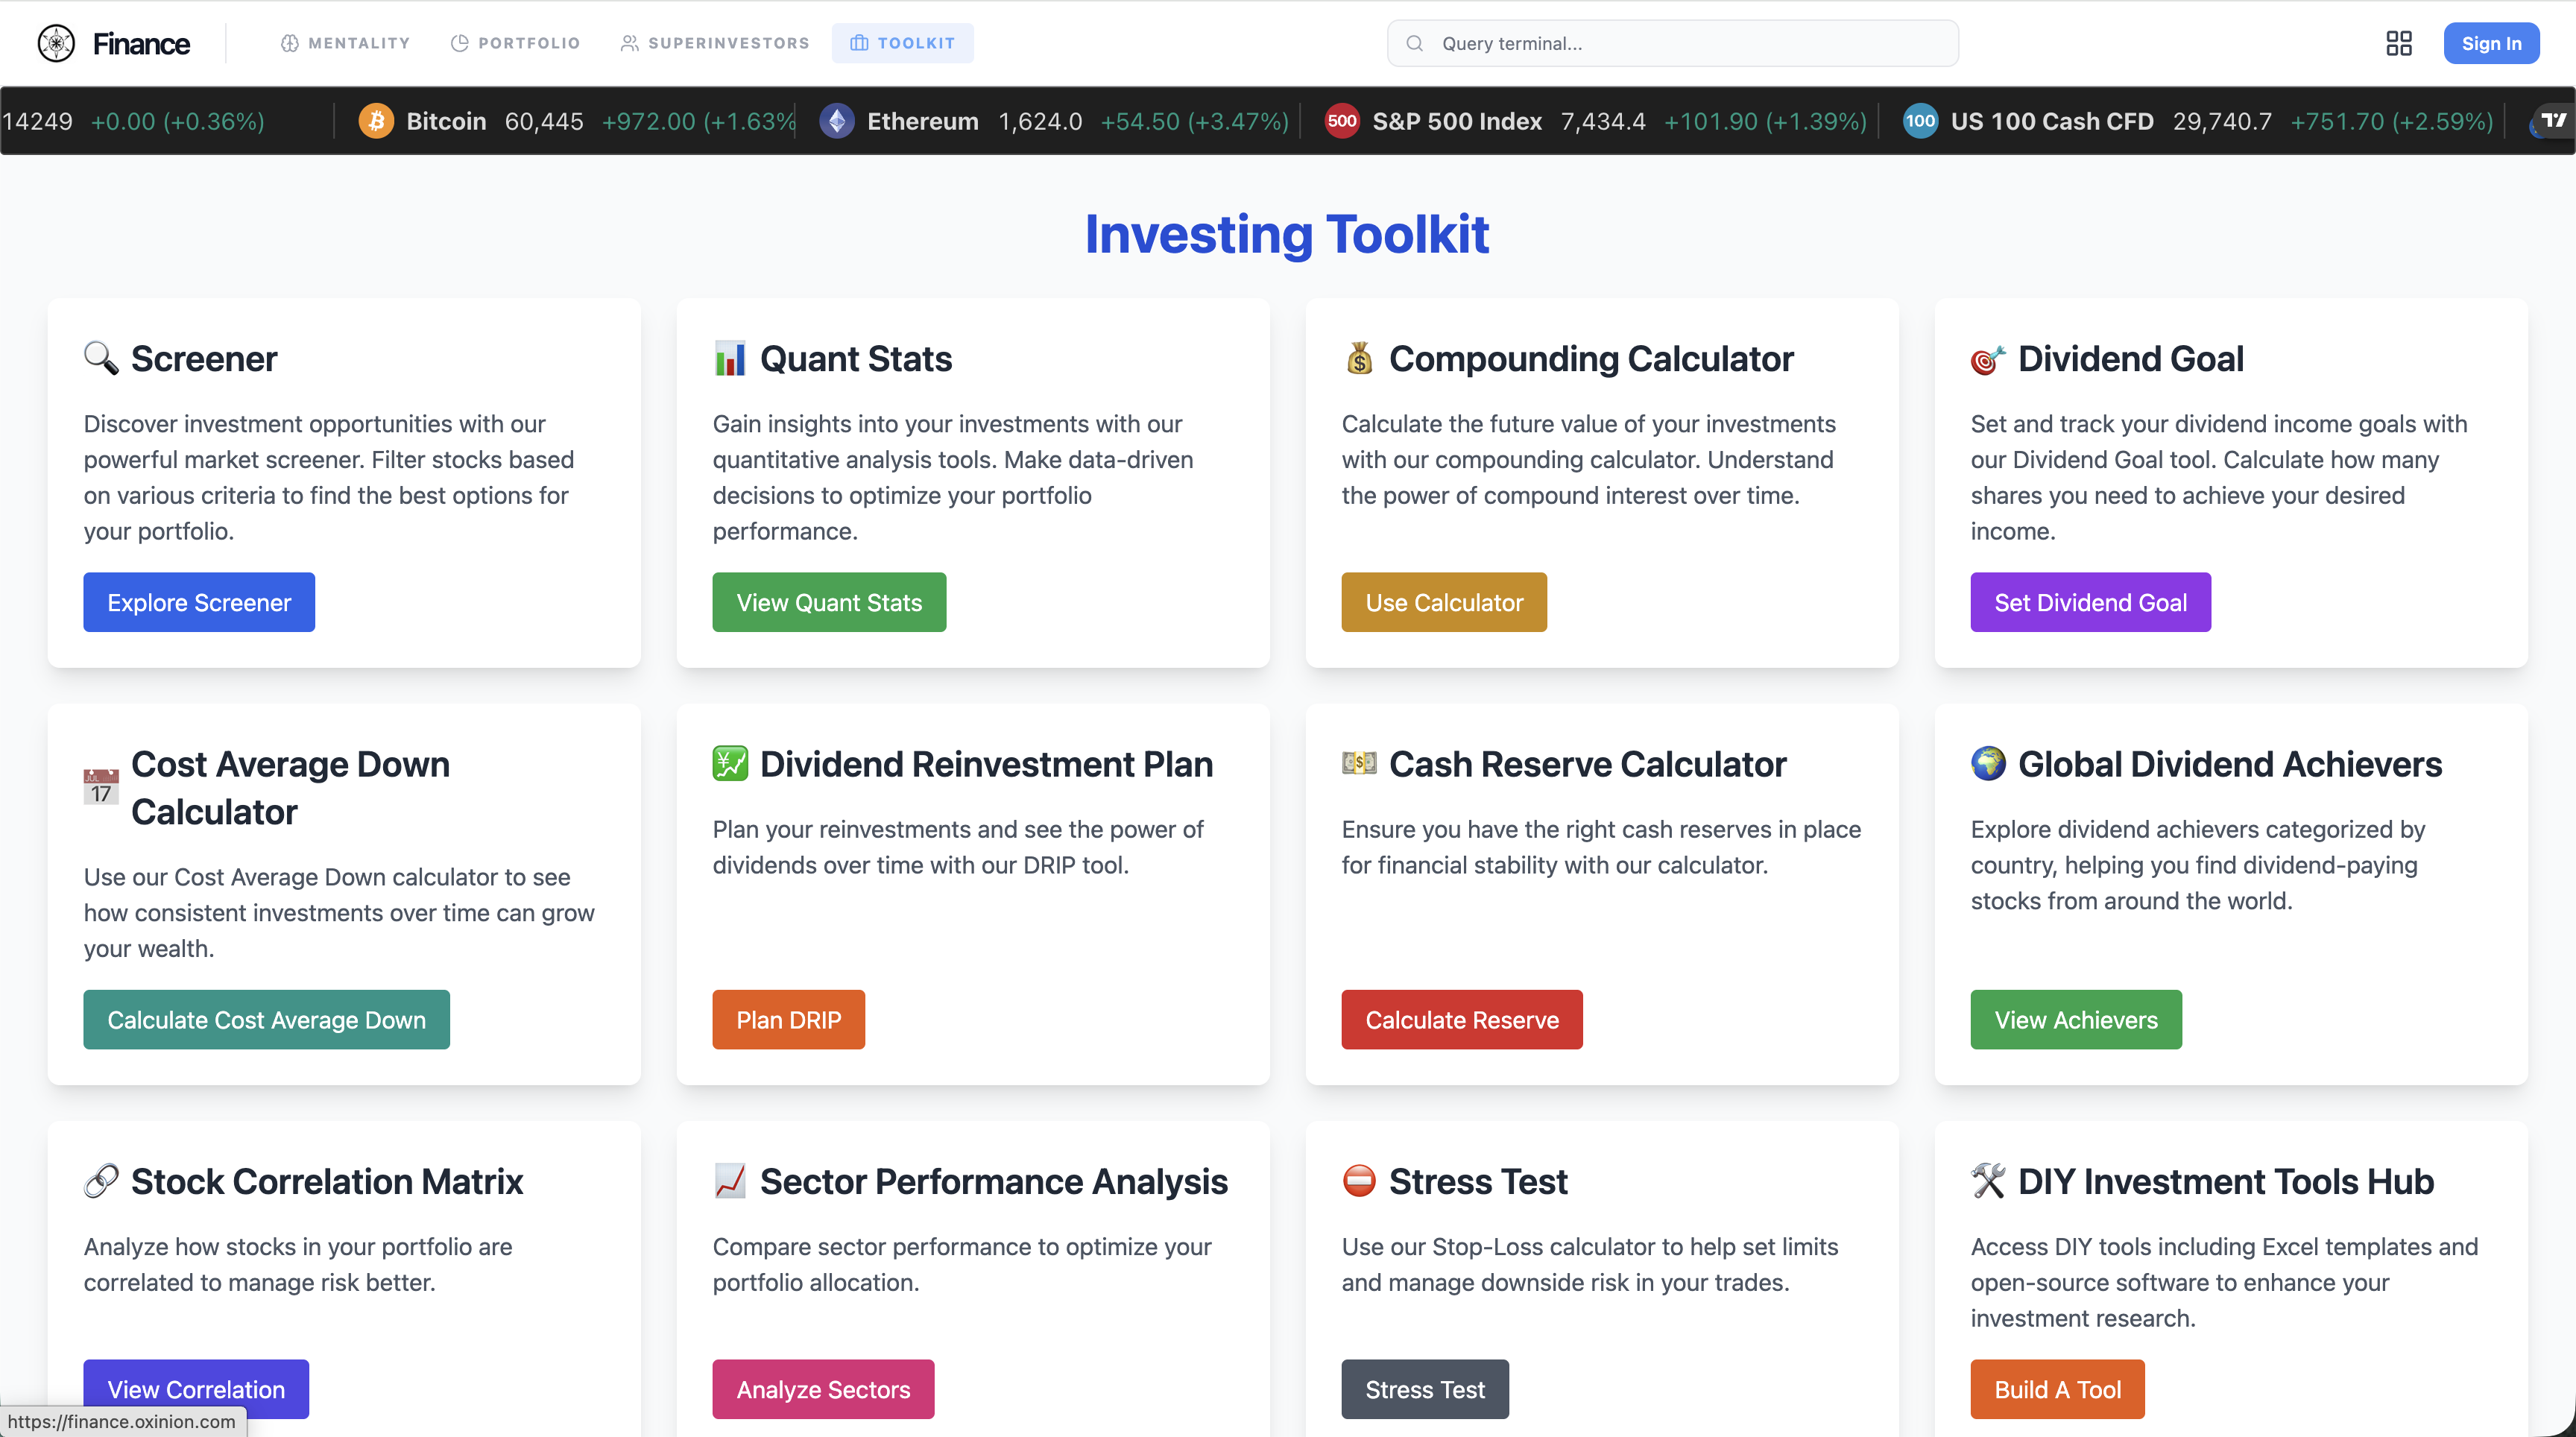
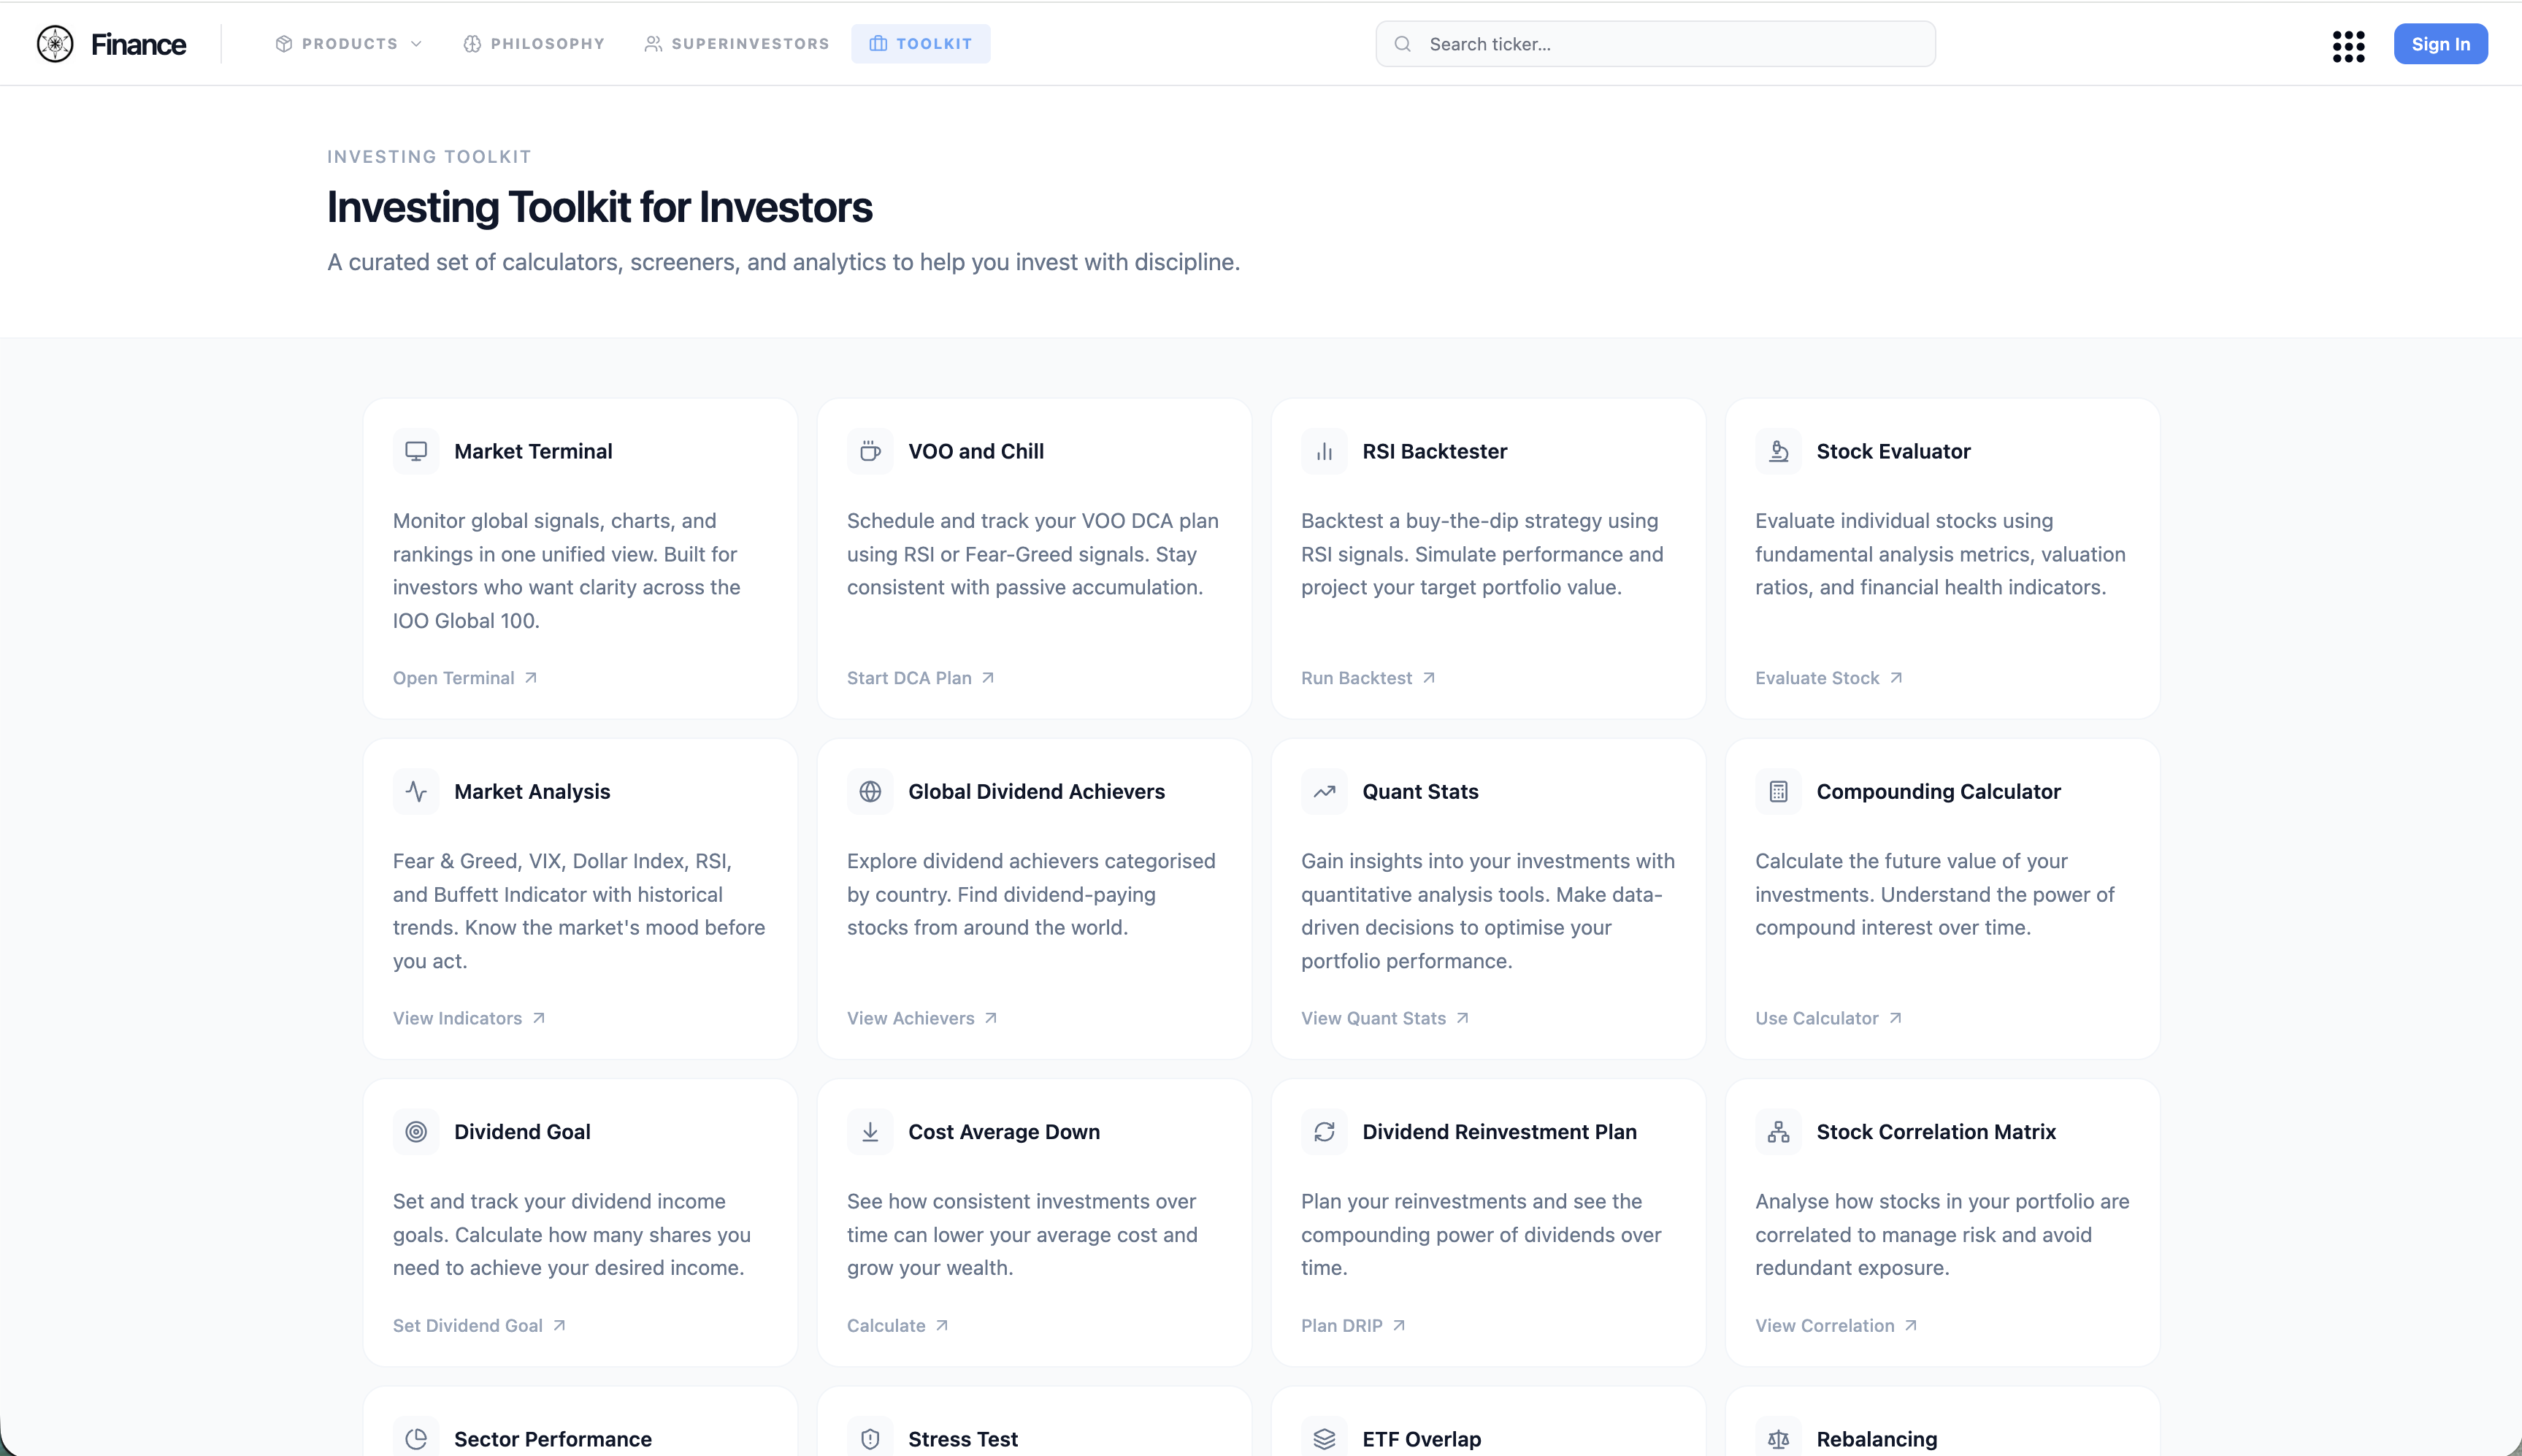
update

diff --git a/src/app/page.tsx b/src/app/page.tsx
@@ -143,8 +143,8 @@ export default function Home() {
             </h3>
             <div className="space-y-8">
               {/* Openmile */}
-              <div className="flex gap-6">
-                <div className="shrink-0 w-20">
+              <div className="flex flex-col sm:flex-row gap-1 sm:gap-6">
+                <div className="shrink-0 sm:w-20">
                   <span className="text-gray-500 text-sm whitespace-nowrap">
                     2024 — 2026
                   </span>
@@ -218,12 +218,12 @@ export default function Home() {
                       <p className="mb-2 text-sm font-medium">
                         Project Gallery:
                       </p>
-                      <div className="flex gap-2">
+                      <div className="flex flex-wrap gap-2">
                         {openmileimages.map((image, idx) => (
                           <button
                             key={image.id}
                             onClick={() => openModal(openmileimages, idx)}
-                            className="relative w-16 h-16 border border-gray-200 rounded overflow-hidden hover:border-gray-300 transition-colors"
+                            className="relative w-16 h-16 border border-gray-200 rounded hover:border-gray-300 transition-colors"
                           >
                             <img
                               src={image.src}
@@ -239,8 +239,8 @@ export default function Home() {
               </div>
 
               {/* Surff Company */}
-              <div className="flex gap-6">
-                <div className="shrink-0 w-20">
+              <div className="flex flex-col sm:flex-row gap-1 sm:gap-6">
+                <div className="shrink-0 sm:w-20">
                   <span className="text-gray-500 text-sm whitespace-nowrap">
                     2023
                   </span>
@@ -297,12 +297,12 @@ export default function Home() {
                       <p className="mb-2 text-sm font-medium">
                         Project Gallery:
                       </p>
-                      <div className="flex gap-2">
+                      <div className="flex flex-wrap gap-2">
                         {surffimages.map((image, idx) => (
                           <button
                             key={image.id}
                             onClick={() => openModal(surffimages, idx)}
-                            className="relative w-16 h-16 border border-gray-200 rounded overflow-hidden hover:border-gray-300 transition-colors"
+                            className="relative w-16 h-16 border border-gray-200 rounded hover:border-gray-300 transition-colors"
                           >
                             <img
                               src={image.src}
@@ -318,8 +318,8 @@ export default function Home() {
               </div>
 
               {/* Uptempo Global */}
-              <div className="flex gap-6">
-                <div className="shrink-0 w-20">
+              <div className="flex flex-col sm:flex-row gap-1 sm:gap-6">
+                <div className="shrink-0 sm:w-20">
                   <span className="text-gray-500 text-sm whitespace-nowrap">
                     2022
                   </span>
@@ -376,12 +376,12 @@ export default function Home() {
                       <p className="mb-2 text-sm font-medium">
                         Project Gallery:
                       </p>
-                      <div className="flex gap-2">
+                      <div className="flex flex-wrap gap-2">
                         {uptempoimages.map((image, idx) => (
                           <button
                             key={image.id}
                             onClick={() => openModal(uptempoimages, idx)}
-                            className="relative w-16 h-16 border border-gray-200 rounded overflow-hidden hover:border-gray-300 transition-colors"
+                            className="relative w-16 h-16 border border-gray-200 rounded hover:border-gray-300 transition-colors"
                           >
                             <img
                               src={image.src}
@@ -397,8 +397,8 @@ export default function Home() {
               </div>
 
               {/* Community STEM Instructor */}
-              <div className="flex gap-6">
-                <div className="shrink-0 w-20">
+              <div className="flex flex-col sm:flex-row gap-1 sm:gap-6">
+                <div className="shrink-0 sm:w-20">
                   <span className="text-gray-500 text-sm whitespace-nowrap">
                     2016
                   </span>
@@ -439,8 +439,8 @@ export default function Home() {
           <section className="mb-12">
             <h3 className="text-lg font-medium mb-6">Projects</h3>
             <div className="space-y-8">
-              <div className="flex gap-6">
-                <div className="shrink-0 w-20">
+              <div className="flex flex-col sm:flex-row gap-1 sm:gap-6">
+                <div className="shrink-0 sm:w-20">
                   <span className="text-gray-500 text-sm whitespace-nowrap">
                     Present
                   </span>
@@ -501,12 +501,12 @@ export default function Home() {
                       <p className="mb-2 text-sm font-medium">
                         Project Gallery:
                       </p>
-                      <div className="flex gap-2">
+                      <div className="flex flex-wrap gap-2">
                         {oxinioimages.map((image, idx) => (
                           <button
                             key={image.id}
                             onClick={() => openModal(oxinioimages, idx)}
-                            className="relative w-16 h-16 border border-gray-200 rounded overflow-hidden hover:border-gray-300 transition-colors"
+                            className="relative w-16 h-16 border border-gray-200 rounded hover:border-gray-300 transition-colors"
                           >
                             <img
                               src={image.src}
@@ -521,8 +521,8 @@ export default function Home() {
                 </div>
               </div>
 
-              <div className="flex gap-6">
-                <div className="shrink-0 w-20">
+              <div className="flex flex-col sm:flex-row gap-1 sm:gap-6">
+                <div className="shrink-0 sm:w-20">
                   <span className="text-gray-500 text-sm whitespace-nowrap">
                     Present
                   </span>
@@ -588,12 +588,12 @@ export default function Home() {
                       <p className="mb-2 text-sm font-medium">
                         Project Gallery:
                       </p>
-                      <div className="flex gap-2">
+                      <div className="flex flex-wrap gap-2">
                         {financeimages.map((image, idx) => (
                           <button
                             key={image.id}
                             onClick={() => openModal(financeimages, idx)}
-                            className="relative w-16 h-16 border border-gray-200 rounded overflow-hidden hover:border-gray-300 transition-colors"
+                            className="relative w-16 h-16 border border-gray-200 rounded hover:border-gray-300 transition-colors"
                           >
                             <img
                               src={image.src}
@@ -608,8 +608,8 @@ export default function Home() {
                 </div>
               </div>
 
-              <div className="flex gap-6">
-                <div className="shrink-0 w-20">
+              <div className="flex flex-col sm:flex-row gap-1 sm:gap-6">
+                <div className="shrink-0 sm:w-20">
                   <span className="text-gray-500 text-sm whitespace-nowrap">
                     Present
                   </span>
@@ -665,12 +665,12 @@ export default function Home() {
                       <p className="mb-2 text-sm font-medium">
                         Project Gallery:
                       </p>
-                      <div className="flex gap-2">
+                      <div className="flex flex-wrap gap-2">
                         {ofbimages.map((image, idx) => (
                           <button
                             key={image.id}
                             onClick={() => openModal(ofbimages, idx)}
-                            className="relative w-16 h-16 border border-gray-200 rounded overflow-hidden hover:border-gray-300 transition-colors"
+                            className="relative w-16 h-16 border border-gray-200 rounded hover:border-gray-300 transition-colors"
                           >
                             <img
                               src={image.src}
@@ -685,8 +685,8 @@ export default function Home() {
                 </div>
               </div>
 
-              <div className="flex gap-6">
-                <div className="shrink-0 w-20">
+              <div className="flex flex-col sm:flex-row gap-1 sm:gap-6">
+                <div className="shrink-0 sm:w-20">
                   <span className="text-gray-500 text-sm whitespace-nowrap">
                     Present
                   </span>
@@ -742,12 +742,12 @@ export default function Home() {
                       <p className="mb-2 text-sm font-medium">
                         Project Gallery:
                       </p>
-                      <div className="flex gap-2">
+                      <div className="flex flex-wrap gap-2">
                         {jobangnakjiimages.map((image, idx) => (
                           <button
                             key={image.id}
                             onClick={() => openModal(jobangnakjiimages, idx)}
-                            className="relative w-16 h-16 border border-gray-200 rounded overflow-hidden hover:border-gray-300 transition-colors"
+                            className="relative w-16 h-16 border border-gray-200 rounded hover:border-gray-300 transition-colors"
                           >
                             <img
                               src={image.src}
@@ -762,8 +762,8 @@ export default function Home() {
                 </div>
               </div>
 
-              <div className="flex gap-6">
-                <div className="shrink-0 w-20">
+              <div className="flex flex-col sm:flex-row gap-1 sm:gap-6">
+                <div className="shrink-0 sm:w-20">
                   <span className="text-gray-500 text-sm whitespace-nowrap">
                     Present
                   </span>
@@ -822,14 +822,14 @@ export default function Home() {
                       <p className="mb-2 text-sm font-medium">
                         Project Gallery:
                       </p>
-                      <div className="flex gap-2">
+                      <div className="flex flex-wrap gap-2">
                         {supabasemarkdownimages.map((image, idx) => (
                           <button
                             key={image.id}
                             onClick={() =>
                               openModal(supabasemarkdownimages, idx)
                             }
-                            className="relative w-16 h-16 border border-gray-200 rounded overflow-hidden hover:border-gray-300 transition-colors"
+                            className="relative w-16 h-16 border border-gray-200 rounded hover:border-gray-300 transition-colors"
                           >
                             <img
                               src={image.src}
@@ -850,8 +850,8 @@ export default function Home() {
           <section className="mb-12">
             <h3 className="text-lg font-medium mb-6">Education</h3>
             <div className="space-y-8">
-              <div className="flex gap-6">
-                <div className="shrink-0 w-20">
+              <div className="flex flex-col sm:flex-row gap-1 sm:gap-6">
+                <div className="shrink-0 sm:w-20">
                   <span className="text-gray-500 text-sm whitespace-nowrap">
                     2015 — 2018
                   </span>

diff --git a/src/app/layout.tsx b/src/app/layout.tsx
@@ -1,5 +1,6 @@
 import type { Metadata } from "next";
 import { Geist, Geist_Mono } from "next/font/google";
+// @ts-ignore: CSS side-effect import lacks type declarations in this environment
 import "./globals.css";
 
 const geistSans = Geist({